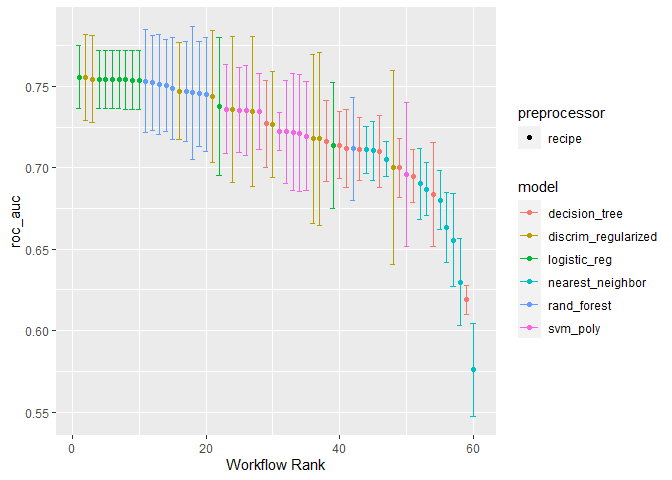
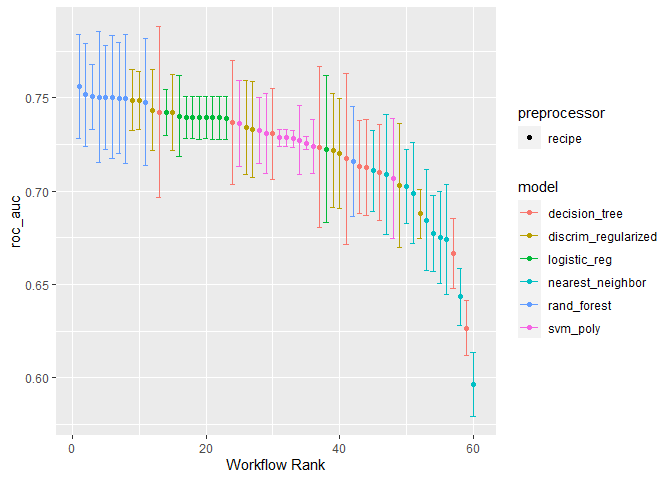
knitted with seed

diff --git a/rmd.md b/rmd.md
@@ -76,6 +76,7 @@ risk %>% missing_plot()
 ![](rmd_files/figure-gfm/finalfit-1.png)<!-- -->
 
 ``` r
+set.seed(1)
 risk_split <- initial_split(risk,
                             prop = 0.75,
                             strata = Risk)
@@ -163,6 +164,7 @@ risk_wflow_set <- workflow_set(preproc = list(rec = risk_rec),
 risk_metrics <- metric_set(accuracy, sens, spec, roc_auc)
 
 #folds caracteristics for the cross validation 
+set.seed(2)
 risk_folds <- vfold_cv(data =  risk_training,
                        #nb of folds
                        v = 5,
@@ -189,29 +191,29 @@ wflow_set_grid_results <- risk_wflow_set %>%
 
     ## Warning: package 'vctrs' was built under R version 4.0.5
 
-    ## v 1 of 6 tuning:     rec_logit (21s)
+    ## v 1 of 6 tuning:     rec_logit (23s)
 
     ## i 2 of 6 tuning:     rec_rda
 
-    ## v 2 of 6 tuning:     rec_rda (21.8s)
+    ## v 2 of 6 tuning:     rec_rda (28s)
 
     ## i 3 of 6 tuning:     rec_dt
 
-    ## v 3 of 6 tuning:     rec_dt (21.1s)
+    ## v 3 of 6 tuning:     rec_dt (22s)
 
     ## i 4 of 6 tuning:     rec_rf
 
     ## i Creating pre-processing data to finalize unknown parameter: mtry
 
-    ## v 4 of 6 tuning:     rec_rf (1m 5.2s)
+    ## v 4 of 6 tuning:     rec_rf (1m 7.4s)
 
     ## i 5 of 6 tuning:     rec_knn
 
-    ## v 5 of 6 tuning:     rec_knn (42.2s)
+    ## v 5 of 6 tuning:     rec_knn (49.8s)
 
     ## i 6 of 6 tuning:     rec_svm
 
-    ## v 6 of 6 tuning:     rec_svm (23.3s)
+    ## v 6 of 6 tuning:     rec_svm (28s)
 
 ``` r
 #rank the models by the area under the roc curve
@@ -221,18 +223,18 @@ wflow_set_grid_results %>%
 ```
 
     ## # A tibble: 60 x 9
-    ##    wflow_id  .config     .metric  mean std_err     n preprocessor model     rank
-    ##    <chr>     <chr>       <chr>   <dbl>   <dbl> <int> <chr>        <chr>    <int>
-    ##  1 rec_logit Preprocess~ roc_auc 0.756  0.0118     5 recipe       logisti~     1
-    ##  2 rec_rda   Preprocess~ roc_auc 0.756  0.0159     5 recipe       discrim~     2
-    ##  3 rec_rda   Preprocess~ roc_auc 0.754  0.0162     5 recipe       discrim~     3
-    ##  4 rec_logit Preprocess~ roc_auc 0.754  0.0109     5 recipe       logisti~     4
-    ##  5 rec_logit Preprocess~ roc_auc 0.754  0.0110     5 recipe       logisti~     5
-    ##  6 rec_logit Preprocess~ roc_auc 0.754  0.0108     5 recipe       logisti~     6
-    ##  7 rec_logit Preprocess~ roc_auc 0.754  0.0109     5 recipe       logisti~     7
-    ##  8 rec_logit Preprocess~ roc_auc 0.754  0.0109     5 recipe       logisti~     8
-    ##  9 rec_logit Preprocess~ roc_auc 0.754  0.0109     5 recipe       logisti~     9
-    ## 10 rec_logit Preprocess~ roc_auc 0.754  0.0109     5 recipe       logisti~    10
+    ##    wflow_id .config     .metric  mean std_err     n preprocessor model      rank
+    ##    <chr>    <chr>       <chr>   <dbl>   <dbl> <int> <chr>        <chr>     <int>
+    ##  1 rec_rf   Preprocess~ roc_auc 0.756 0.0168      5 recipe       rand_for~     1
+    ##  2 rec_rf   Preprocess~ roc_auc 0.751 0.0168      5 recipe       rand_for~     2
+    ##  3 rec_rf   Preprocess~ roc_auc 0.751 0.0106      5 recipe       rand_for~     3
+    ##  4 rec_rf   Preprocess~ roc_auc 0.750 0.0212      5 recipe       rand_for~     4
+    ##  5 rec_rf   Preprocess~ roc_auc 0.750 0.0170      5 recipe       rand_for~     5
+    ##  6 rec_rf   Preprocess~ roc_auc 0.750 0.0200      5 recipe       rand_for~     6
+    ##  7 rec_rf   Preprocess~ roc_auc 0.750 0.0180      5 recipe       rand_for~     7
+    ##  8 rec_rf   Preprocess~ roc_auc 0.749 0.0209      5 recipe       rand_for~     8
+    ##  9 rec_rda  Preprocess~ roc_auc 0.749 0.00988     5 recipe       discrim_~     9
+    ## 10 rec_rda  Preprocess~ roc_auc 0.749 0.00950     5 recipe       discrim_~    10
     ## # ... with 50 more rows
 
 ``` r
@@ -264,8 +266,8 @@ final_fit %>% collect_metrics()
     ## # A tibble: 2 x 4
     ##   .metric  .estimator .estimate .config             
     ##   <chr>    <chr>          <dbl> <chr>               
-    ## 1 accuracy binary         0.78  Preprocessor1_Model1
-    ## 2 roc_auc  binary         0.779 Preprocessor1_Model1
+    ## 1 accuracy binary         0.74  Preprocessor1_Model1
+    ## 2 roc_auc  binary         0.768 Preprocessor1_Model1
 
 ``` r
 risk_predictions <- final_fit %>% collect_predictions()
